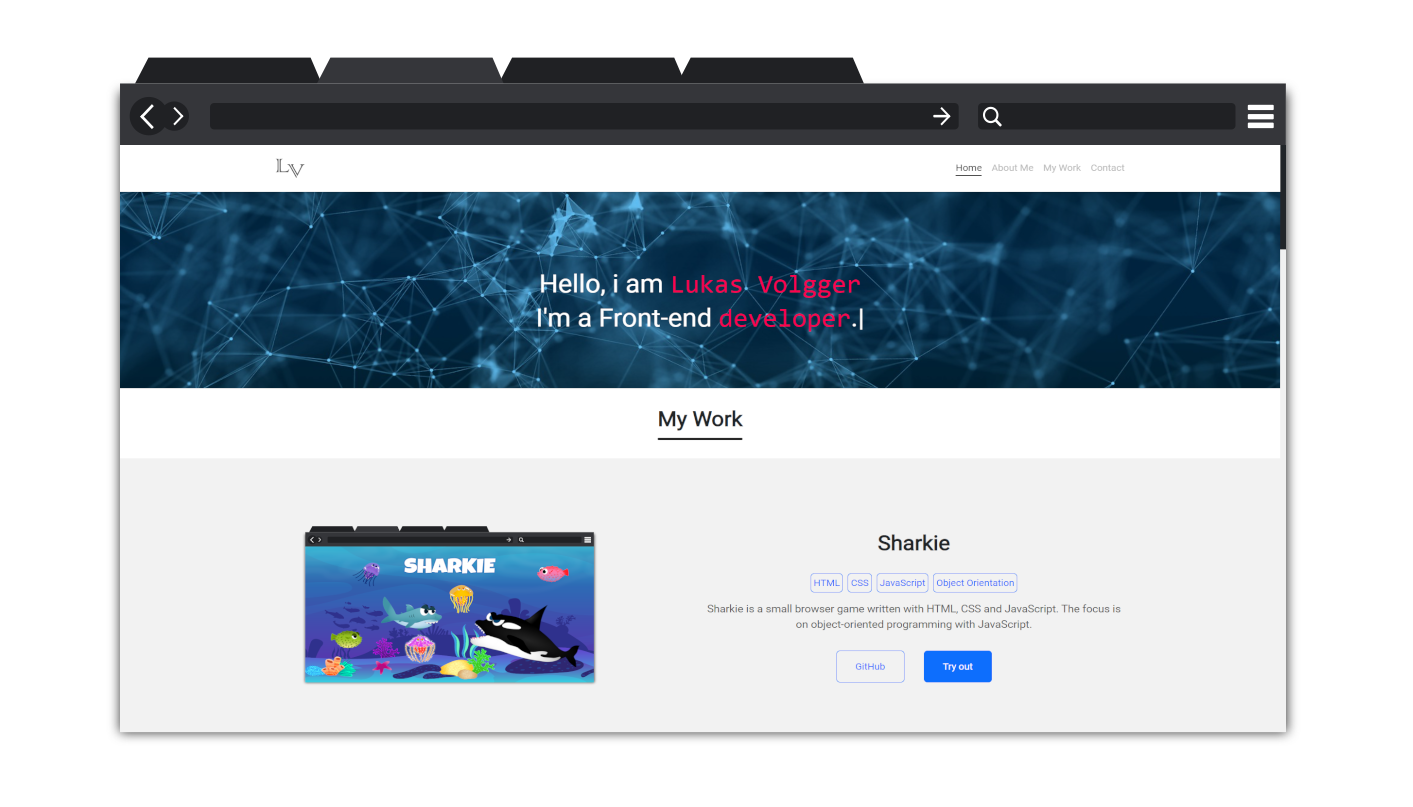
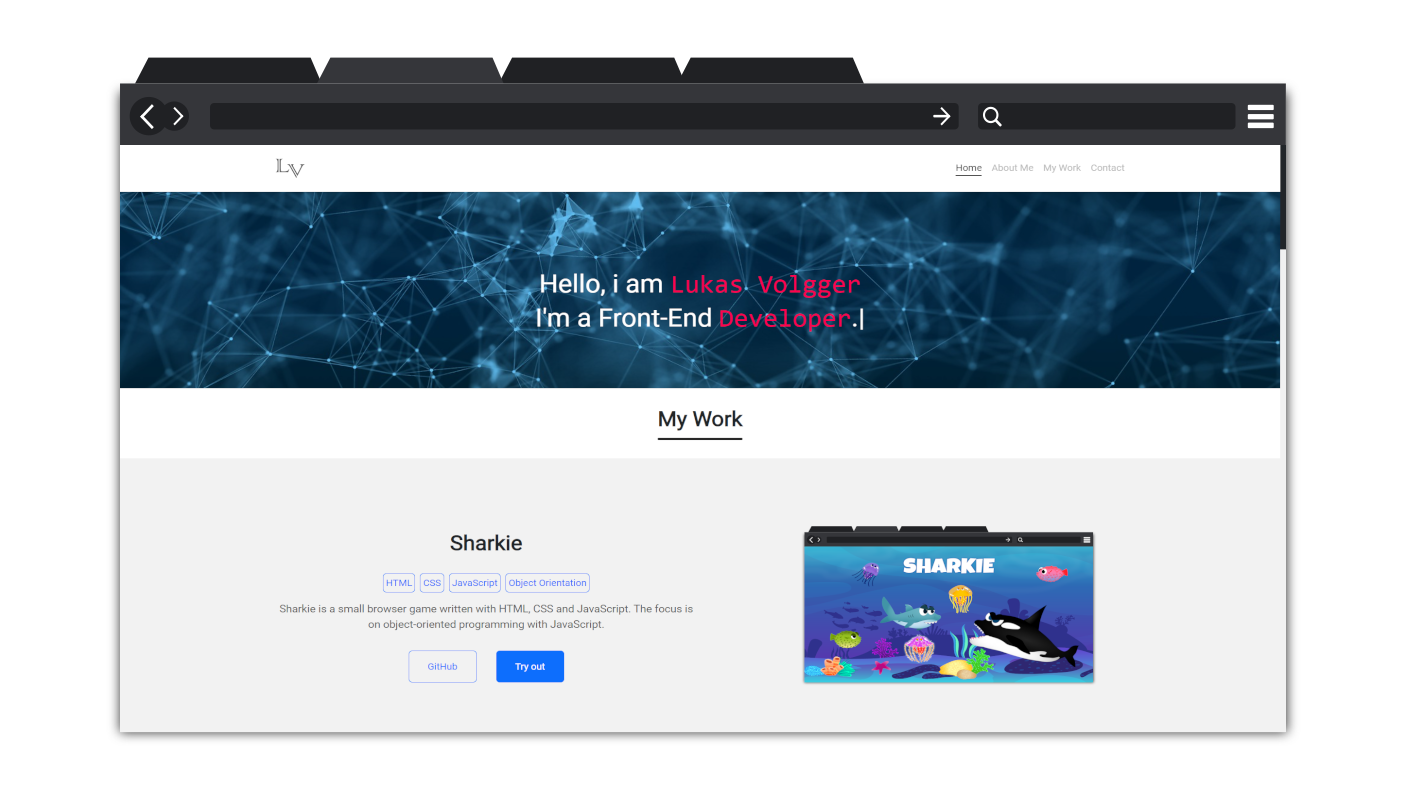
typo fix and change cover

Changed region(s): [[0.1868, 0.6506, 0.7785, 0.8674], [0.3737, 0.3717, 0.6228, 0.4027]]

diff --git a/src/app/home/home.component.html b/src/app/home/home.component.html
@@ -1,6 +1,6 @@
 <div class="content border-spacing">
     <div class="home-banner">
-        <ngx-typed-js [typeSpeed]="100" [backSpeed]="80" [backDelay]="2000" [contentType]="'html'" [strings]="['Front-end <code>developer</code>.']" [loop]="true">
+        <ngx-typed-js [typeSpeed]="100" [backSpeed]="80" [backDelay]="2000" [contentType]="'html'" [strings]="['Front-End <code>Developer</code>.']" [loop]="true">
             <h1>Hello, i am <code>Lukas Volgger</code></h1>
             <span class="headline">I'm a <span class="typing headline"></span></span>
         </ngx-typed-js>
